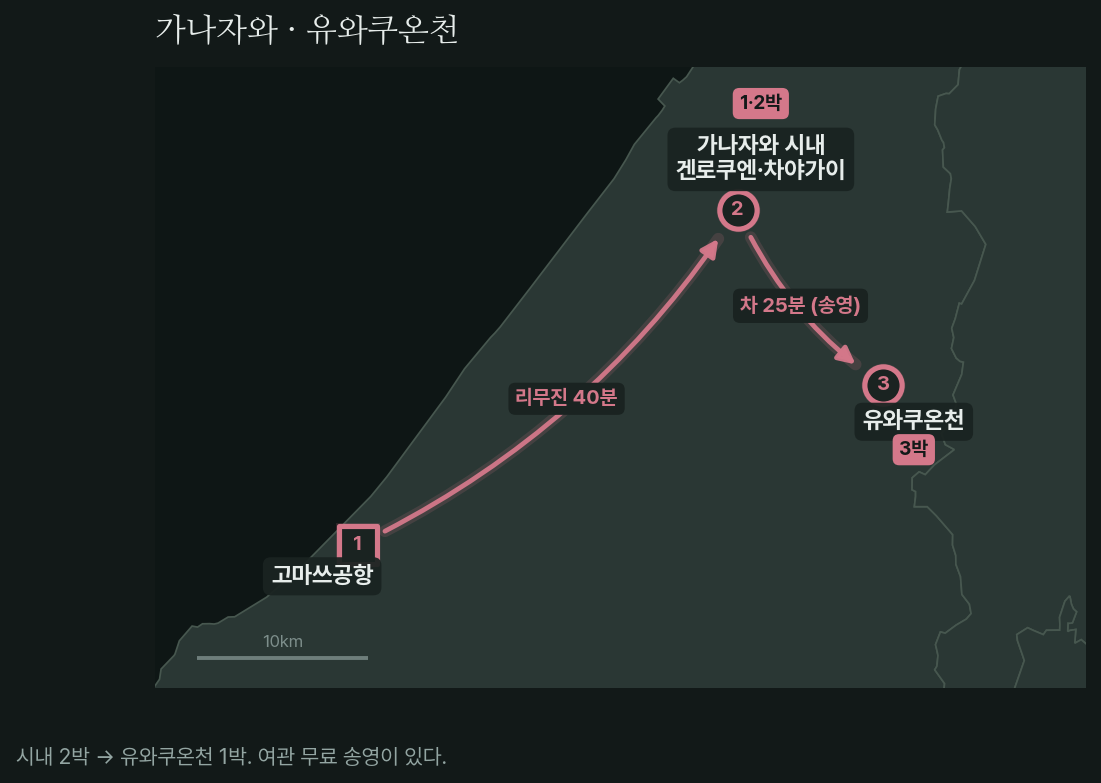
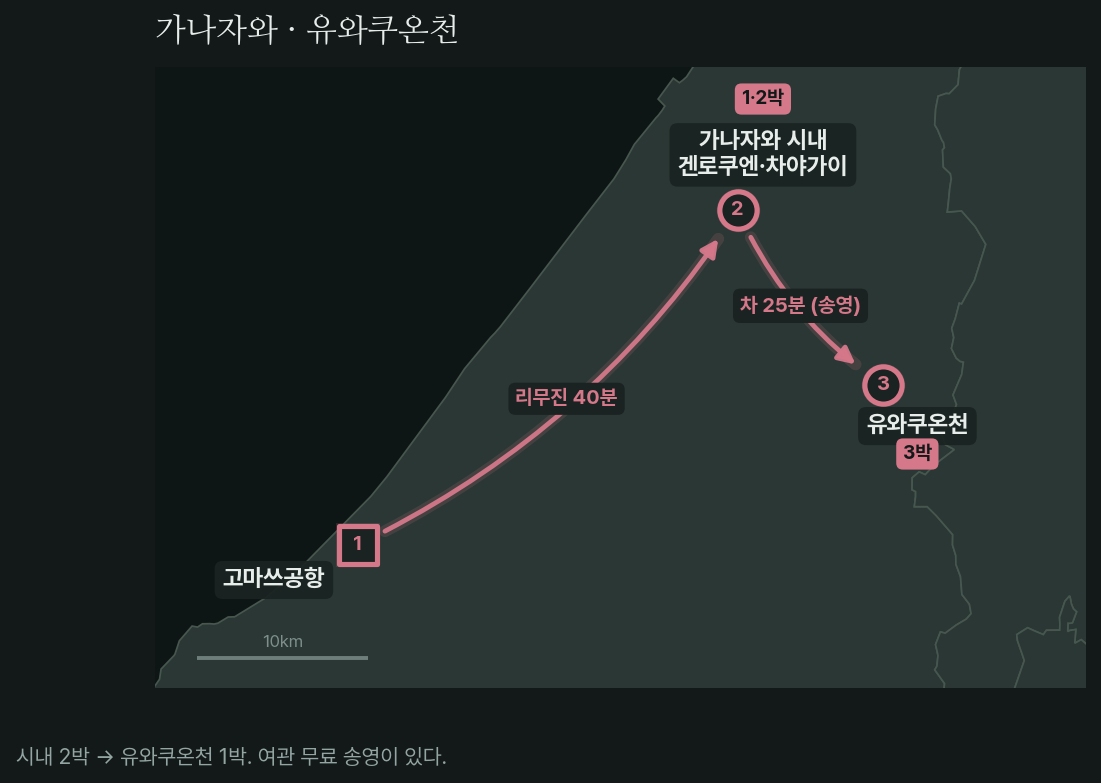
fix: 노드 번호를 덮던 라벨 간격 보정
figure-maker에 새로 붙인 렌더 검사(figcheck)가 2건을 잡았다. 눈으로는
"이 정도면 됐다"고 넘겼던 것이다 — 센다이 2번·요나고 2번에서 라벨 상자가
노드 번호를 8×12px 덮고 있었다.

라벨을 옆에 놓을 때 간격을 세로 기준(dy/kx)으로 잡은 게 원인이라, 수평
방향일 때만 2.1배로 밀었다. 다섯 장 모두 0건.

Changed region(s): [[0.6176, 0.092, 0.772, 0.2452], [0.772, 0.5211, 0.8955, 0.613], [0.2162, 0.705, 0.3397, 0.7663]]

diff --git a/japan-onsen-picker/_figures/make_routes.py b/japan-onsen-picker/_figures/make_routes.py
@@ -217,8 +217,11 @@ def draw(key, cfg, prefs, theme="light"):
         else:
             mag = math.hypot(vx, vy)
             ux, uy = (0.0, -1.0) if mag < 1e-9 else (-vx / mag, -vy / mag)
-        dy = (y1 - y0) * (0.090 if "\n" in name else 0.077)
+        dy = (y1 - y0) * (0.098 if "\n" in name else 0.086)
         dx = dy / kx
+        if abs(ux) > 0.7:
+            # 옆으로 놓을 때는 간격을 세로 기준으로 잡으면 노드를 비껴가지 못한다
+            dx *= 2.1
         ax.text(lon + ux * dx, lat + uy * dy, name, fontsize=11,
                 color=C["ink"], weight="bold" if kind != "spot" else "normal",
                 ha="center", va="center", zorder=8,
